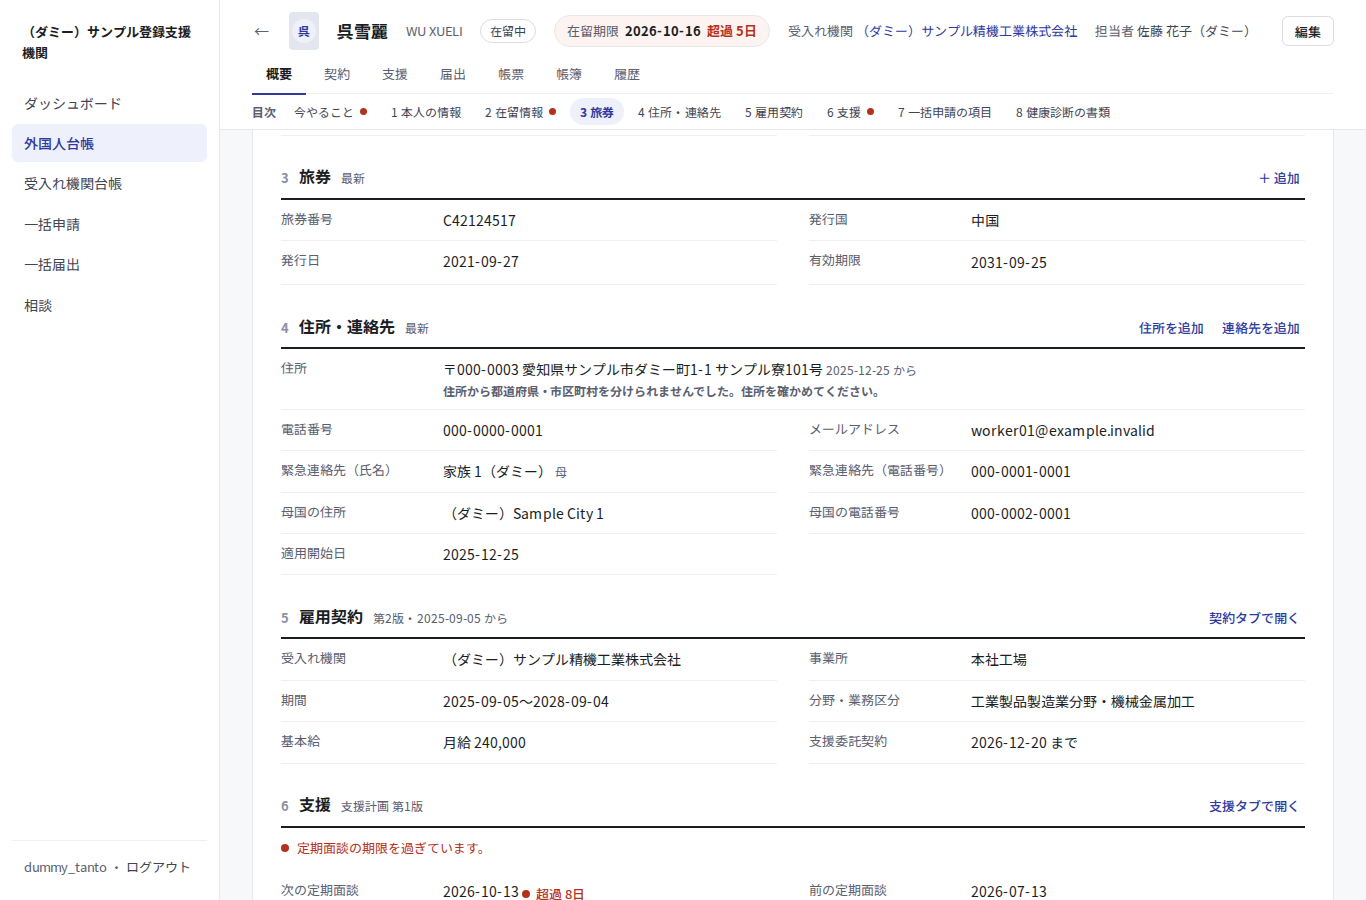
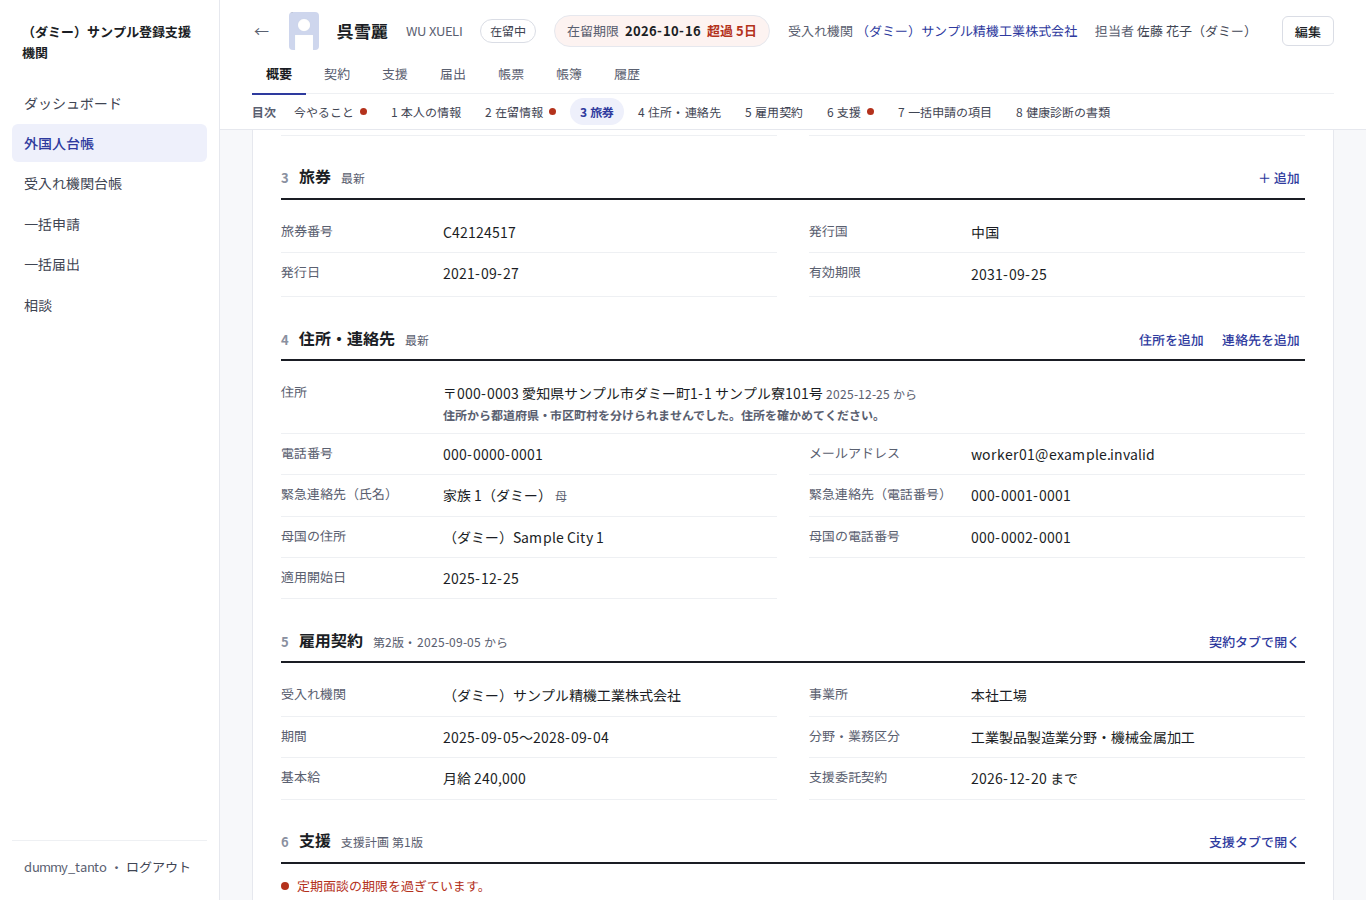
docs: ADR-0046 に契約・支援などのタブ（U5）を追記し、見本 05・06 と同じ画面の design-shots を撮る

diff --git a/docs/decisions/0046-ui-redesign-2026-10.md b/docs/decisions/0046-ui-redesign-2026-10.md
@@ -63,3 +63,10 @@
    - **今やること**（U3-D3 と補い。`services/worker_overview.py`）: この人の未完了の届出タスク（期限の近い順に 5 件まで。関係するセクションへのリンクと「記録」か「開く」）、この人を入れたまだ Excel を作っていない一括申請（この人の行の不足の件数）、提出用の PDF の下書き（申請の書類の一覧の、今日を基準日にした不足の件数。不足が 0 なら出さない）。
    - **見る人の権限**: 5 雇用契約は契約を見る権限、6 支援は支援を見る権限、今やることの届出タスクは届出を見る権限、一括申請と下書きは帳票を作る権限があるときだけ出す（タブの権限と同じ。目次からも外す）。
    - **監査ログ**: 閲覧は今と同じ 1 件。5 雇用契約の要約に出した契約の版の ID を `context.shown.contract_version` に足した。
+
+## 追記（U5: 契約・支援・届出・帳票・帳簿・履歴のタブ。2026-10-21）
+
+1. **契約のタブ**（見本 05）: 1 雇用契約（いまの版を「期間と場所・労働時間と休日・賃金・窓口」の小見出しで。主な操作「新しい版を追加」と「…」〔添付・雇用契約の登録・終了の登録〕。契約が 2 つ以上なら契約の一覧）→ 2 版の履歴（版・適用の開始・変わったこと・届出〔変更は届出タスクの版の番号、第 1 版は締結の届出〕・差分を見る、差分）→ 3 契約の書類（報酬の説明の入力と、様式ごとの最新の生成物と署名の状態〔未生成・生成中・署名待ち・署名済み・生成済み〕と作る操作。名前は今の「第1-6号を作る」などのまま）→ 4 支援委託契約（受入れ機関の今日効いている契約を読むだけ。U5-D2）。
+2. **支援のタブ**（見本 06。U5-D1）: 1 定期面談（期限の知らせ・次の期限・前の面談・監督者のカード、面談を記録する）→ 2 支援計画（今の折りたたみの部品のまま。版の一覧と差分）→ 3 支援の記録（新しい順に 10 件。「記録をすべて見る」で今の記録の画面）→ 4 相談（対応中）→ 5 交付（新しい順に 10 件。「交付をすべて見る」で今の交付の画面）。目次の右に「＋ 支援を記録する」。全部の記録・交付の画面には今の小タブ（計画・記録・交付）を残した。
+3. **届出・帳票・帳簿・履歴のタブ**: 番号つきのセクションと目次にそろえた（中身は今のまま。履歴のタブは 1 担当者・2 申請用の写真・3 台帳の履歴）。
+4. 監査ログ: 支援のタブの閲覧の記録に、表示した支援の記録・相談・交付の ID を足した。件数は今と同じ 1 件。
